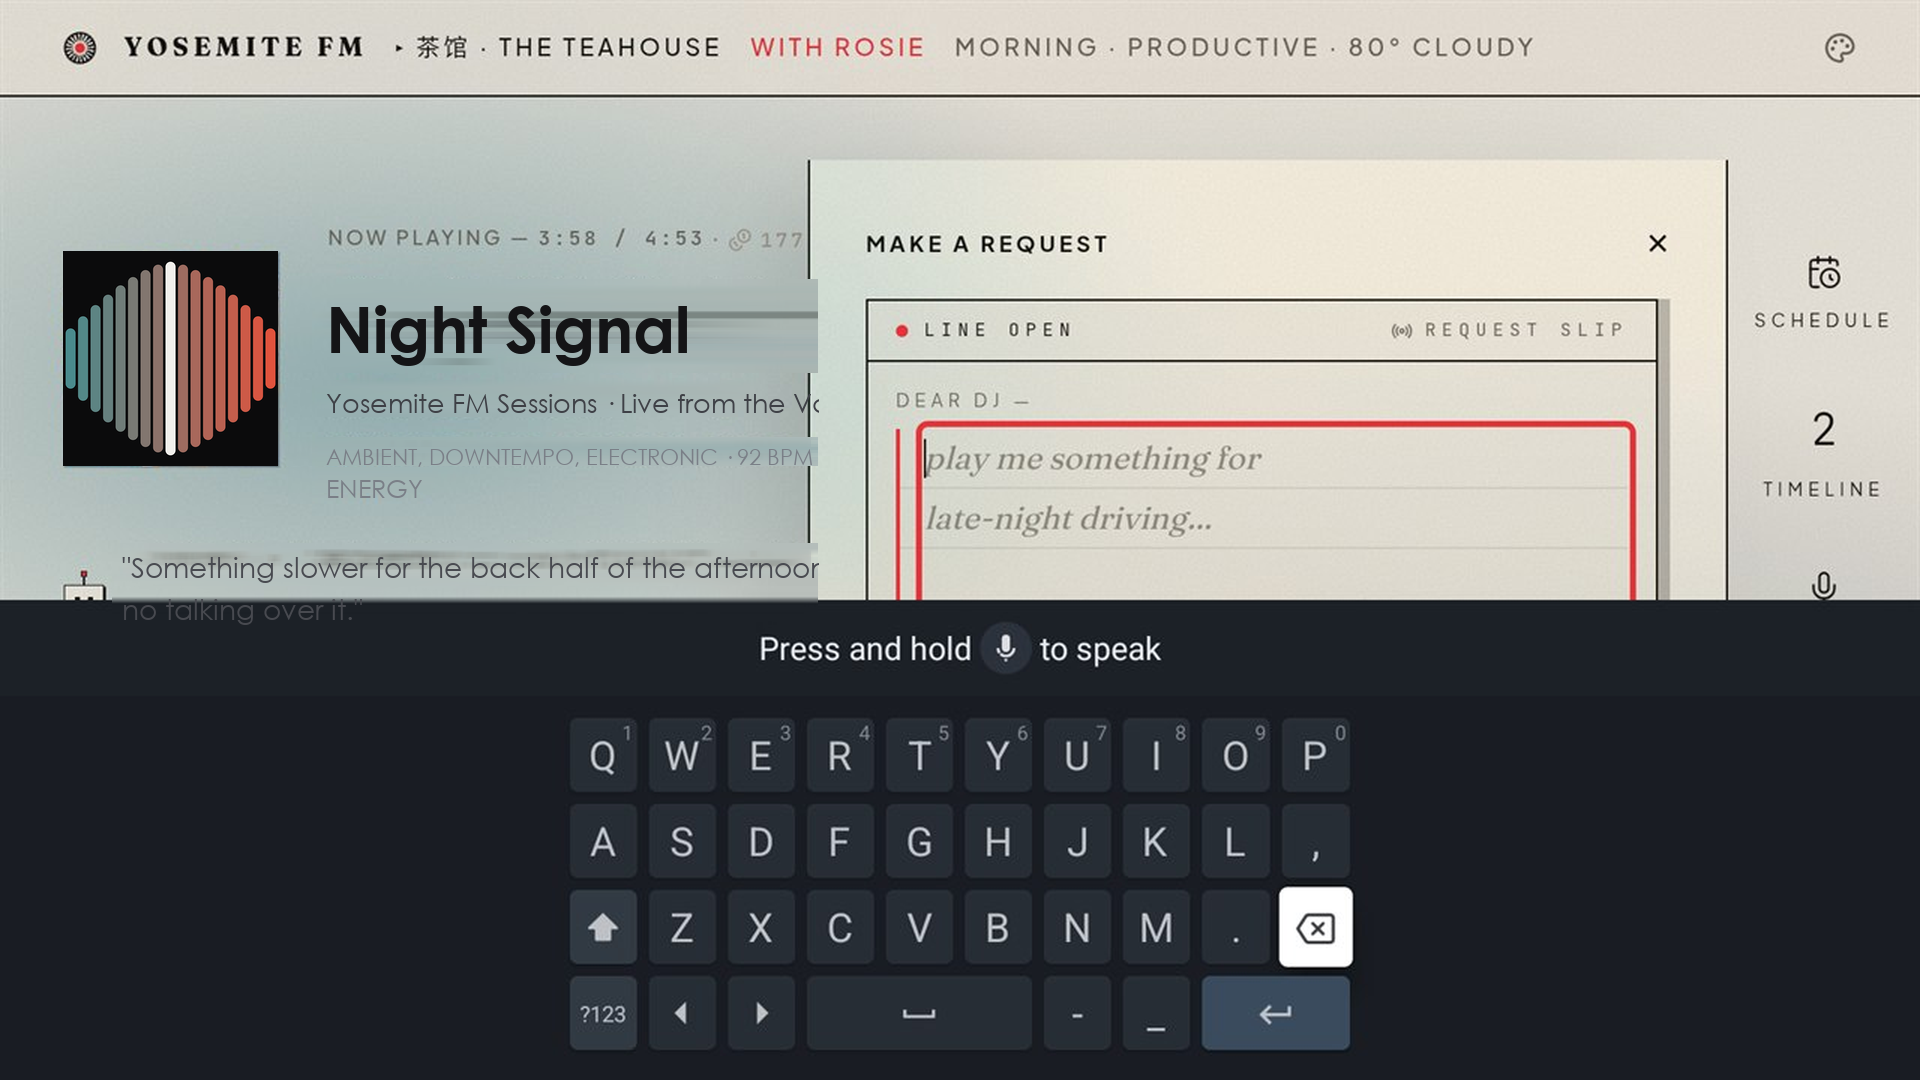
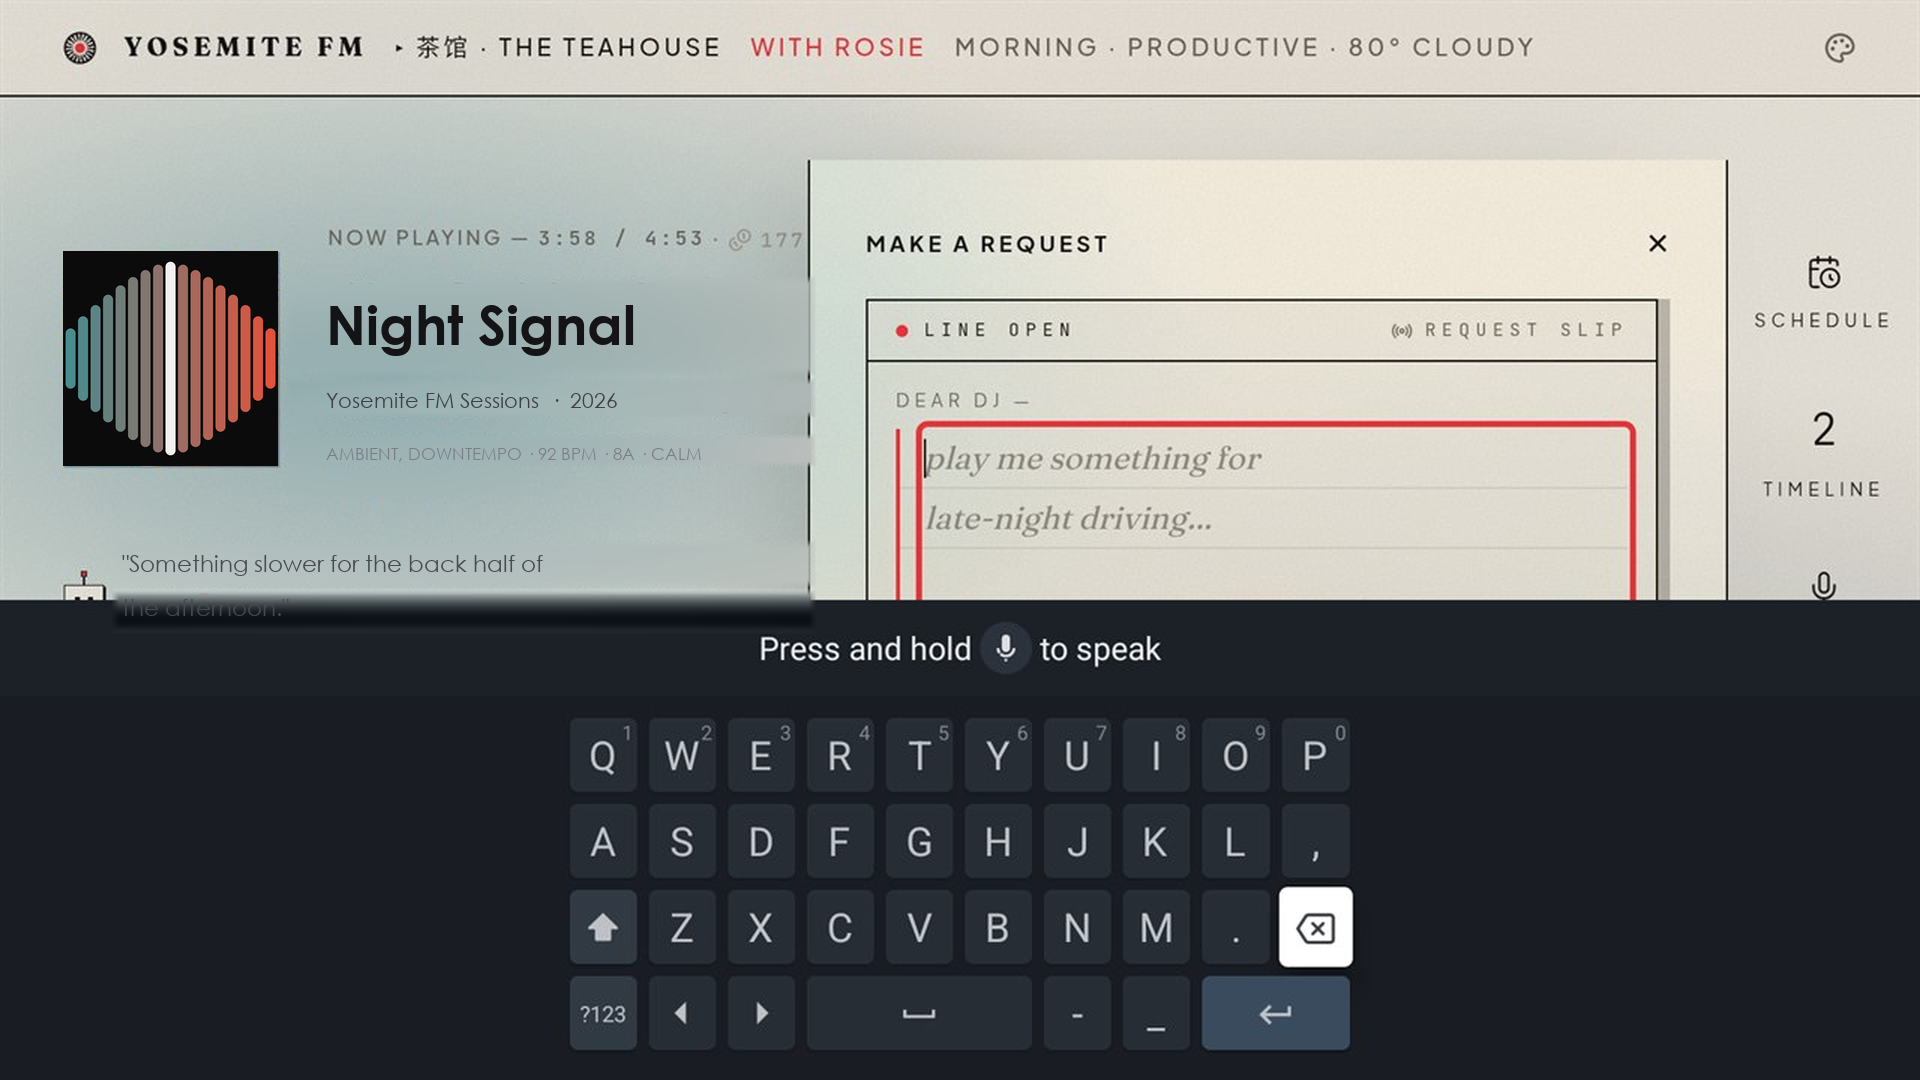
Redo the screenshot text so nothing is clipped or ghosted
The first pass had two faults. Replacement strings were longer than the text
they replaced, so in the request and keyboard frames they ran under the
request drawer and were cut mid-word. And the erased background was rebuilt by
interpolating along each row, which streaked wherever a tall glyph left the
row with almost no clean pixels to interpolate from.

Strings are now sized to the space the original occupied - checked against a
hard limit before rendering, in every frame - so nothing is clipped anywhere.
The background is reconstructed by fitting a smooth surface to the surrounding
pixels, which cannot streak, and the patch is feathered into its surroundings
by a margin scaled to the box so short lines are not blended back into the
text they were meant to remove.

Changed region(s): [[0.0625, 0.4889, 0.4375, 0.5806], [0.1562, 0.3667, 0.4375, 0.4583], [0.1562, 0.275, 0.4375, 0.3361]]

diff --git a/docs/screenshots.md b/docs/screenshots.md
@@ -6,6 +6,11 @@ original artwork under this repository's MIT licence, and the track, artist,
 album and genre metadata are placeholders naming the station's own
 programming.
 
+Replacement text is kept short enough to fit the space the original occupied,
+so nothing is clipped, and the erased background is reconstructed by fitting a
+smooth surface to the surrounding pixels rather than patched over — there are
+no blocks, seams or leftover ghosting to spot.
+
 They previously showed a commercially released single with its real cover,
 title, artist, album and genre tags. That reproduced artwork this repository
 has no licence to, and presented the app as a way to hear commercial music —
